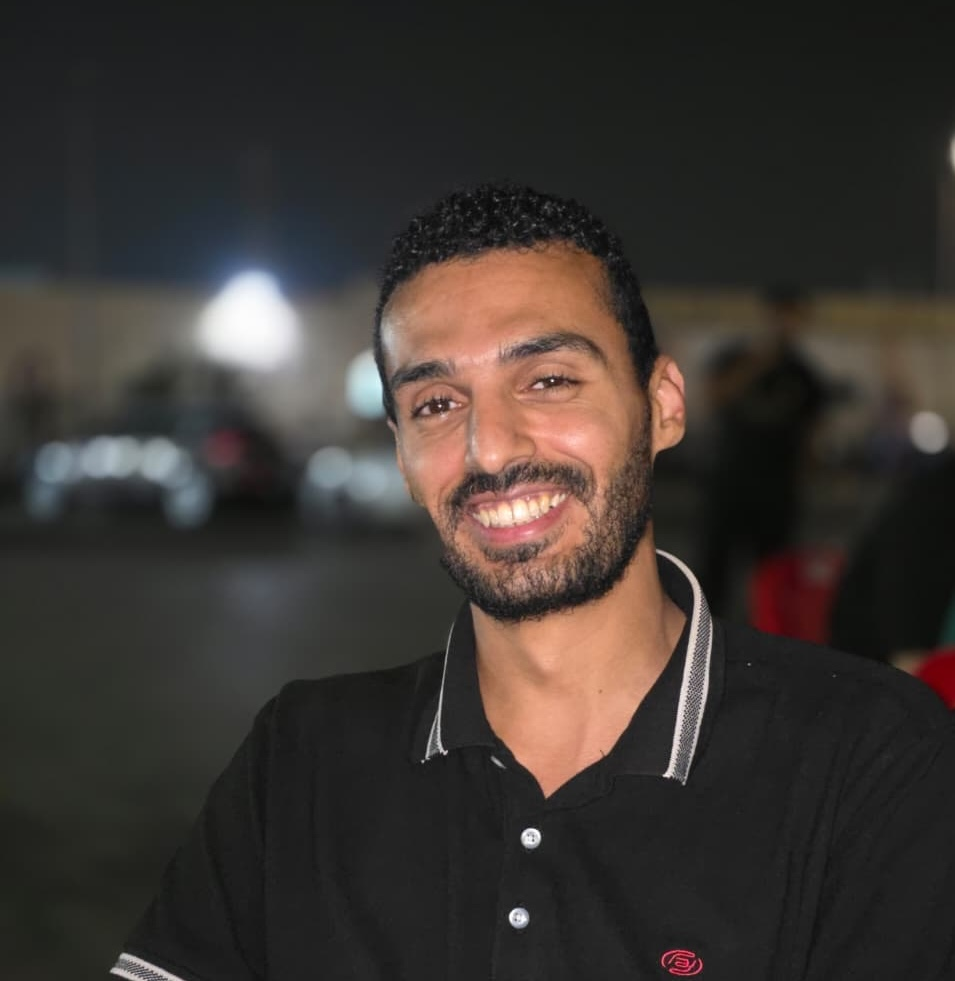
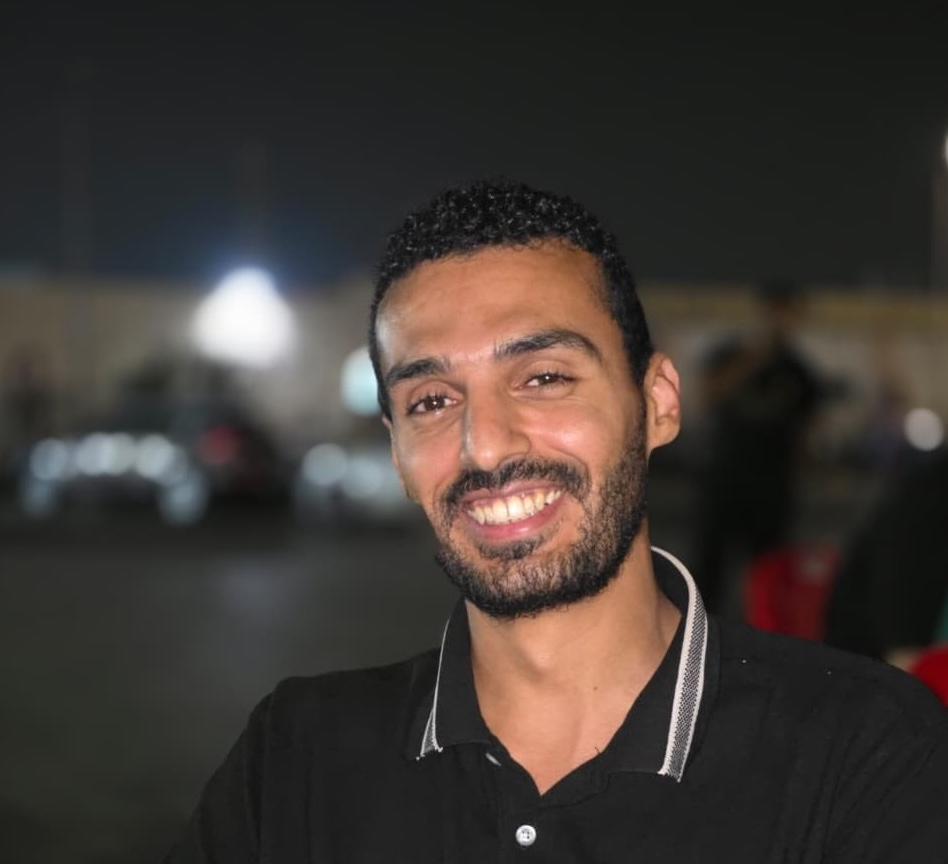
Polish hero and add clear View Resume buttons

diff --git a/index.html b/index.html
@@ -80,8 +80,15 @@
             </p>
             <div class="hero-actions">
               <a class="btn btn-primary" href="#work">Explore my work ↓</a>
-              <a class="btn btn-ghost" href="#contact">Get in touch</a>
-              <a class="btn btn-link" href="#about">About me ↗</a>
+              <a
+                class="btn btn-ghost"
+                href="https://abdallah-omer.github.io/Portfolio/Abdallah_Omar_CV.pdf"
+                target="_blank"
+                rel="noopener noreferrer"
+              >
+                View Resume ↗
+              </a>
+              <a class="btn btn-link" href="#contact">Get in touch ↗</a>
             </div>
             <p class="hero-meta">
               10th of Ramadan, Al-Sharqia · Egypt · iOS &amp; Flutter
@@ -95,10 +102,6 @@
                 src="img/profile-image.JPG"
                 alt="Portrait of Abdallah Ahmad Omar"
               />
-            </div>
-            <div class="hero-chip">
-              <strong>Built for the store</strong>
-              <span>Architecture · UI · Shipping</span>
             </div>
           </div>
         </div>
@@ -226,7 +229,13 @@
               </div>
               <button class="btn btn-primary" type="submit">Send message</button>
               <p class="form-note" id="formStatus">
-                Resume link coming soon — reach me via the form or social links.
+                Prefer email? You can also
+                <a
+                  href="https://abdallah-omer.github.io/Portfolio/Abdallah_Omar_CV.pdf"
+                  target="_blank"
+                  rel="noopener noreferrer"
+                  >download my resume</a
+                >.
               </p>
             </form>
 
@@ -238,6 +247,19 @@
               <div class="info-block">
                 <h3>Company</h3>
                 <p><a href="https://marn.io" target="_blank" rel="noopener noreferrer">Marn</a></p>
+              </div>
+              <div class="info-block">
+                <h3>Resume</h3>
+                <p>
+                  <a
+                    class="btn btn-ghost"
+                    href="https://abdallah-omer.github.io/Portfolio/Abdallah_Omar_CV.pdf"
+                    target="_blank"
+                    rel="noopener noreferrer"
+                  >
+                    View Resume ↗
+                  </a>
+                </p>
               </div>
               <div class="info-block">
                 <h3>Around the web</h3>

diff --git a/css/site.css b/css/site.css
@@ -388,31 +388,6 @@ textarea {
   display: block;
 }
 
-.hero-chip {
-  position: absolute;
-  right: -0.2rem;
-  bottom: 1.1rem;
-  background: rgba(8, 18, 32, 0.88);
-  border: 1px solid var(--line);
-  backdrop-filter: blur(10px);
-  border-radius: 1rem;
-  padding: 0.8rem 1rem;
-  max-width: 12.5rem;
-  animation: float-y 4.5s ease-in-out infinite;
-  z-index: 2;
-}
-
-.hero-chip strong {
-  display: block;
-  font-size: 0.92rem;
-  margin-bottom: 0.15rem;
-}
-
-.hero-chip span {
-  color: var(--muted);
-  font-size: 0.8rem;
-}
-
 /* Sections */
 .section {
   padding: 5rem 0;
@@ -986,19 +961,8 @@ body.modal-open {
     transition: none;
   }
 
-  .hero-ring,
-  .hero-chip {
+  .hero-ring {
     animation: none;
-  }
-}
-
-@keyframes float-y {
-  0%,
-  100% {
-    transform: translateY(0);
-  }
-  50% {
-    transform: translateY(-8px);
   }
 }
 
